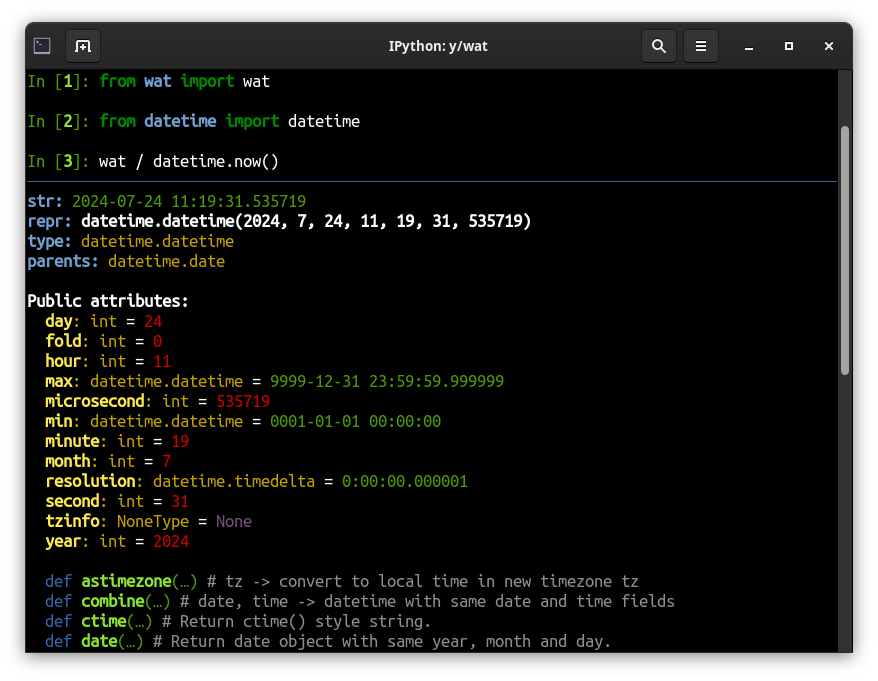
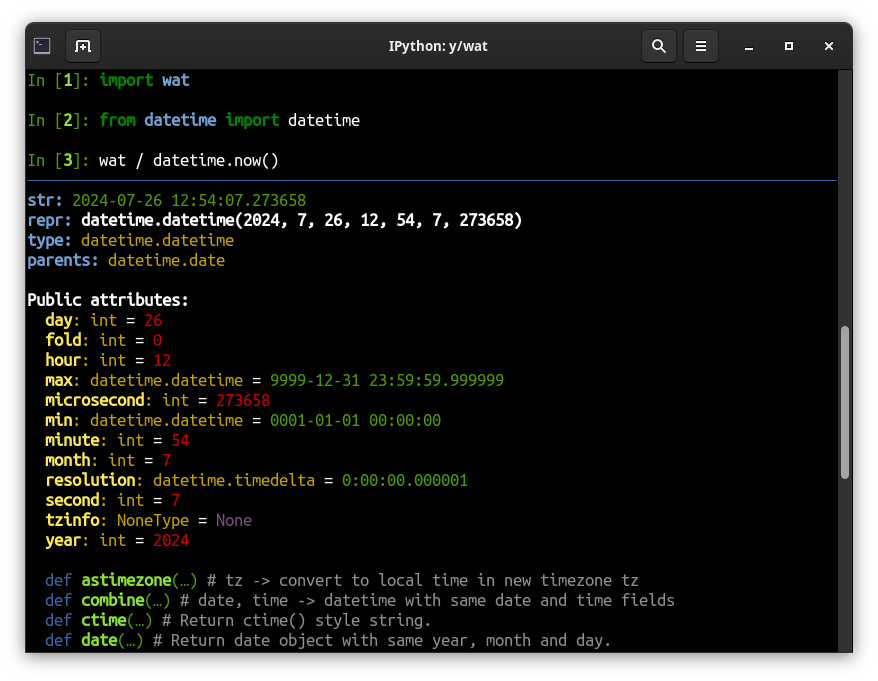
docs: update demo video to use import wat

diff --git a/docs/demo/run-demo-inspect.py b/docs/demo/run-demo-inspect.py
@@ -5,15 +5,32 @@ from livekey import animate_commands
 commands = [
     'python',
     'import wat',
+    'wat',
     'wat / {7}',
     'wat.short / (1,)',
+    'wat.s / {}',
     'import re',
-    'wat()',
     'wat / re',
-    'wat.code / re.match',
-    'wat.short / locals()',
+    'wat / re.match',
+    'wat.locals',
 ]
 
 
 if __name__ == '__main__':
     animate_commands(commands, key_delay=0.1, line_delay=1.0)
+
+"""
+- Run script: python docs/demo/run-demo-inspect.py
+- Record with OBS recorder
+- Upload MP4 to Github issue: https://github.com/igrek51/wat/issues/1
+- Get source URL like:
+  <video src="https://private-user-images.githubusercontent.com/12595017/330394505-3585123a-c1c4-4ca3-85cd-f52e82e9c744.mp4?jwt=
+  <video src="https://private-user-images.githubusercontent.com/12595017/352510889-022ef89a-9e35-45be-9e2f-08d2c6af9075.mp4?jwt=
+- Turn it into (trim first dashed fragment of filename and drop extension):
+  https://github.com/igrek51/wat/assets/12595017/3585123a-c1c4-4ca3-85cd-f52e82e9c744
+  or
+  https://github.com/user-attachments/assets/022ef89a-9e35-45be-9e2f-08d2c6af9075
+  or edit the post to get the full URL
+- Test with curlie if you get 302. Give Github some time to fully upload it.
+- Embed URL in your `<video src="..">` player
+"""

diff --git a/README.md b/README.md
@@ -27,7 +27,7 @@ Alternatively, you can use `wat(object)` syntax.
 
 ![](https://github.com/igrek51/wat/blob/master/docs/img/wat-datetime.png?raw=true)
 
-<video width="100%" controls="true" allowFullscreen="true" src="https://github.com/igrek51/wat/assets/12595017/3585123a-c1c4-4ca3-85cd-f52e82e9c744" poster="https://raw.githubusercontent.com/igrek51/wat/master/docs/img/wat-intro-set.png">
+<video width="100%" controls="true" allowFullscreen="true" src="https://github.com/user-attachments/assets/022ef89a-9e35-45be-9e2f-08d2c6af9075" poster="https://raw.githubusercontent.com/igrek51/wat/master/docs/img/wat-intro-set.png">
 </video>
 
 ## Import

diff --git a/docs/index.md b/docs/index.md
@@ -32,7 +32,7 @@ Alternatively, you can use `wat(object)` syntax.
 
 ![](https://github.com/igrek51/wat/blob/master/docs/img/wat-datetime.png?raw=true)
 
-<video width="100%" controls="true" allowFullscreen="true" src="https://github.com/igrek51/wat/assets/12595017/3585123a-c1c4-4ca3-85cd-f52e82e9c744" poster="https://raw.githubusercontent.com/igrek51/wat/master/docs/img/wat-intro-set.png">
+<video width="100%" controls="true" allowFullscreen="true" src="https://github.com/user-attachments/assets/022ef89a-9e35-45be-9e2f-08d2c6af9075" poster="https://raw.githubusercontent.com/igrek51/wat/master/docs/img/wat-intro-set.png">
 </video>
 
 ## Import

diff --git a/docs/img/screenshot-playbook.md b/docs/img/screenshot-playbook.md
@@ -6,3 +6,14 @@ python -m IPython
 import wat
 wat / {42}
 ```
+
+
+## wat-datetime.png
+```
+python -m IPython
+```
+```
+import wat
+from datetime import datetime
+wat / datetime.now()
+```
